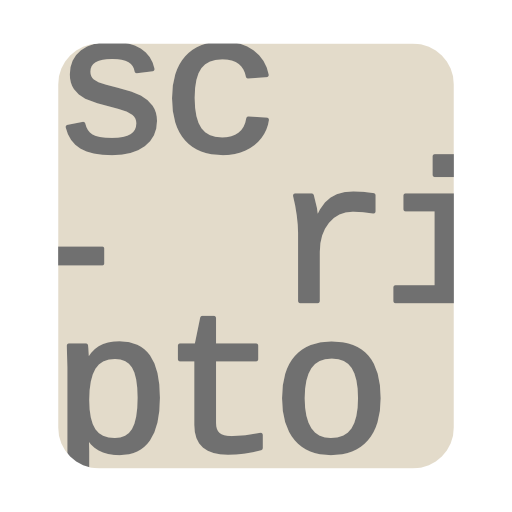
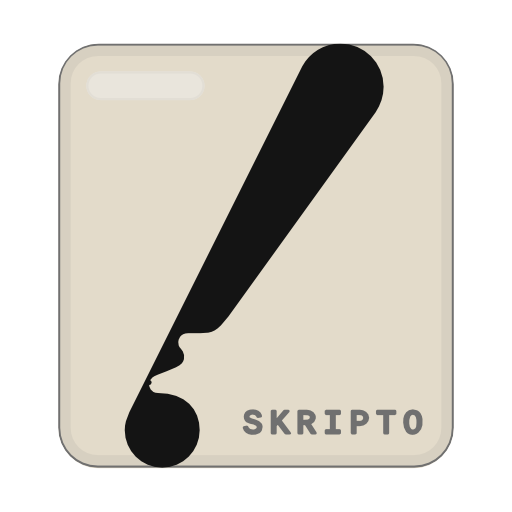
updated name and added shortcuts [start]

diff --git a/src/App.js b/src/App.js
@@ -2,7 +2,6 @@ import React, { Component } from 'react';
 import {HashRouter, Route, Link } from "react-router-dom";
 import * as qs from 'query-string';
 import TextareaAutosize from 'react-autosize-textarea';
-import {remote, ipcRenderer} from 'electron';
 import './App.css';
 import './scripto.css';
 
@@ -11,6 +10,7 @@ import {Placeholder} from './components/basic';
 
 var scripto = require('./lib/scriptosenso');
 const fs = window.require('fs');
+const {remote, ipcRenderer} = window.require('electron');
 
 
 class Main extends Component {
@@ -37,7 +37,7 @@ class Main extends Component {
     };
 
     ipcRenderer.on('file-save', (event, arg) => {
-      console.log(arg);
+      this._saveScript();
     })
 
     this._onScriptUpdate = this._onScriptUpdate.bind(this);
@@ -46,6 +46,7 @@ class Main extends Component {
     this._catchKeysDown = this._catchKeysDown.bind(this);
     this._catchKeysUp = this._catchKeysUp.bind(this);
   }
+
   onLightMode(e) {
     console.warn(e.currentTarget.checked);
     this.setState({checked:e.currentTarget.checked})
@@ -96,6 +97,7 @@ class Main extends Component {
       this.setState({fileSaved:false})
     }
     var newline = false;
+    var removeline = false;
     var nextItemType = null;
     if (e.key === 'Tab'){
       newline = true;
@@ -104,6 +106,7 @@ class Main extends Component {
       this.state.scripto.removeScriptItem(item);
       this.setState({scriptData:this.state.scripto.getScript(), focusItem:item.id-1});
       this._saveScript();
+      removeline=true;
     } else if (e.key === "Enter") {
       if (item.type === "§S" || item.type === "§C" || item.type === "§I") {
         newline = true;
@@ -116,14 +119,25 @@ class Main extends Component {
       this.state.scripto.addScriptItem(item.id, {type:item.type,content:'', id:item.id+1});
       this.setState({scriptData:this.state.scripto.getScript(), focusItem:item.id+1});
       this._saveScript();
-      if (this.focusItemRef) {
+      if (this.focusItemRef && this.focusItem) {
+        console.log('focusing');
         if (this.focusItem.textarea) {
           this.focusItem.textarea.focus()
         } else {
           this.focusItem.focus()
         }
       }
-
+    }
+    if (removeline) {
+      console.log('focusing 1');
+      if (this.focusItemRef && this.focusItem) {
+        console.log('focusing');
+        if (this.focusItem.textarea) {
+          this.focusItem.textarea.focus()
+        } else {
+          this.focusItem.focus()
+        }
+      }
     }
   }
   _onScriptUpdate(e,item) {
@@ -176,17 +190,16 @@ class Main extends Component {
         if (item.type==="§P" || item.type==="§D"){
           return (
             <div className="Scripto-item-block" >
-            {item.id}{item.type}
-            <TextareaAutosize className={"scripto input "+item.type}
-                      tabindex="-1"
-                      type="text"
-                      name="Paragraph"
-                      defaultValue={item.content}
-                      key={item.id.toString()+item.content.replace(" ", "-")}
-                      ref={reference}
-                      onChange={(e)=>this._onScriptUpdate(e, item)}
-                      onKeyDown={(e)=>this._catchItemKeys(e, item)}>
-                      </TextareaAutosize>
+              {item.id}{item.type}
+              <TextareaAutosize className={"scripto input "+item.type}
+                        type="text"
+                        name="Paragraph"
+                        defaultValue={item.content}
+                        key={item.id.toString()+item.content.replace(" ", "-")}
+                        ref={reference}
+                        onChange={(e)=>this._onScriptUpdate(e, item)}
+                        onKeyDown={(e)=>this._catchItemKeys(e, item)}>
+                        </TextareaAutosize>
             </div>
           )
 
@@ -195,7 +208,6 @@ class Main extends Component {
             <div>
             {item.id} {item.type}
             <input className={"scripto input "+item.type}
-                  tabindex="-1"
                   type="text"
                   name="Title"
                   defaultValue={item.content}

diff --git a/src/dev-electron-main.js b/src/dev-electron-main.js
@@ -1,34 +1,71 @@
-// Modules to control application life and create native browser window
-const {app, BrowserWindow} = require('electron')
+const {app, BrowserWindow, globalShortcut, Menu} = require('electron')
 
-// Keep a global reference of the window object, if you don't, the window will
-// be closed automatically when the JavaScript object is garbage collected.
+/* GLOBAL VALUES */
 let mainWindow
 
+/* FUNCTIONS */
 function createWindow () {
-  // Create the browser window.
+  /* CREATE WINDOW */
   mainWindow = new BrowserWindow({width: 938, height: 600, titleBarStyle: 'hiddenInset'})
-
   const startUrl = process.env.ELECTRON_START_URL || url.format({
             pathname: path.join(__dirname, '/../build/index.html'),
             protocol: 'file:',
             slashes: true
         });
-  // and load the index.html of the app.
   mainWindow.loadURL(startUrl)
   //mainWindow.loadFile('../build/index.html')
-  // Open the DevTools.
-  mainWindow.webContents.openDevTools()
 
-  // Emitted when the window is closed.
+  /* DEV TOOLS */
+  mainWindow.webContents.openDevTools();
+
+  /* MENU */
+  const menu = Menu.buildFromTemplate([
+      {
+        label: "Skripto",
+        submenu: [
+          {
+            role:'quit',
+            label:'Quit'
+          }
+        ]
+      },
+      {
+        label: "File",
+        submenu: [
+          {
+            role:'open',
+            label:'Open file'
+          },
+          {
+            role:'save',
+            label:'Save file',
+            click() {
+              mainWindow.webContents.send('file-save')
+            }
+          }
+        ]
+      },
+      {
+        label:'View',
+        submenu: [
+          {
+            role:'switch-darkmode',
+            label:'Switch to Dark/Light mode',
+            click() {
+              mainWindow.webContents.send('switch-darkmode')
+            }
+          }
+        ]
+      }
+  ]);
+  Menu.setApplicationMenu(menu);
+  mainWindow.setMenu(menu);
+
+  /* WINDOW EVENTS */
   mainWindow.on('closed', function () {
-    // Dereference the window object, usually you would store windows
-    // in an array if your app supports multi windows, this is the time
-    // when you should delete the corresponding element.
     mainWindow = null
   })
 }
-
 
 function openFile(event, pa) {
   openUrl = baseOpenUrl+"?file="+encodeURIComponent(pa);
@@ -39,25 +76,15 @@ function openFile(event, pa) {
   }
 }
 
+/* APP EVENTS */
 app.on('open-file', openFile)
-
-// This method will be called when Electron has finished
-// initialization and is ready to create browser windows.
-// Some APIs can only be used after this event occurs.
 app.on('ready', createWindow)
-
-// Quit when all windows are closed.
 app.on('window-all-closed', function () {
-  // On OS X it is common for applications and their menu bar
-  // to stay active until the user quits explicitly with Cmd + Q
   if (process.platform !== 'darwin') {
     app.quit()
   }
 })
-
 app.on('activate', function () {
-  // On OS X it's common to re-create a window in the app when the
-  // dock icon is clicked and there are no other windows open.
   if (mainWindow === null) {
     createWindow()
   }

diff --git a/src/App.css b/src/App.css
@@ -73,7 +73,7 @@
 }
 .Layout-left {
   flex-basis:196pt;
-  min-width: 152pt;
+  min-width: 196pt;
   border-style:solid;
   border-width: 0pt;
   border-right-width: 0.5pt !important;
